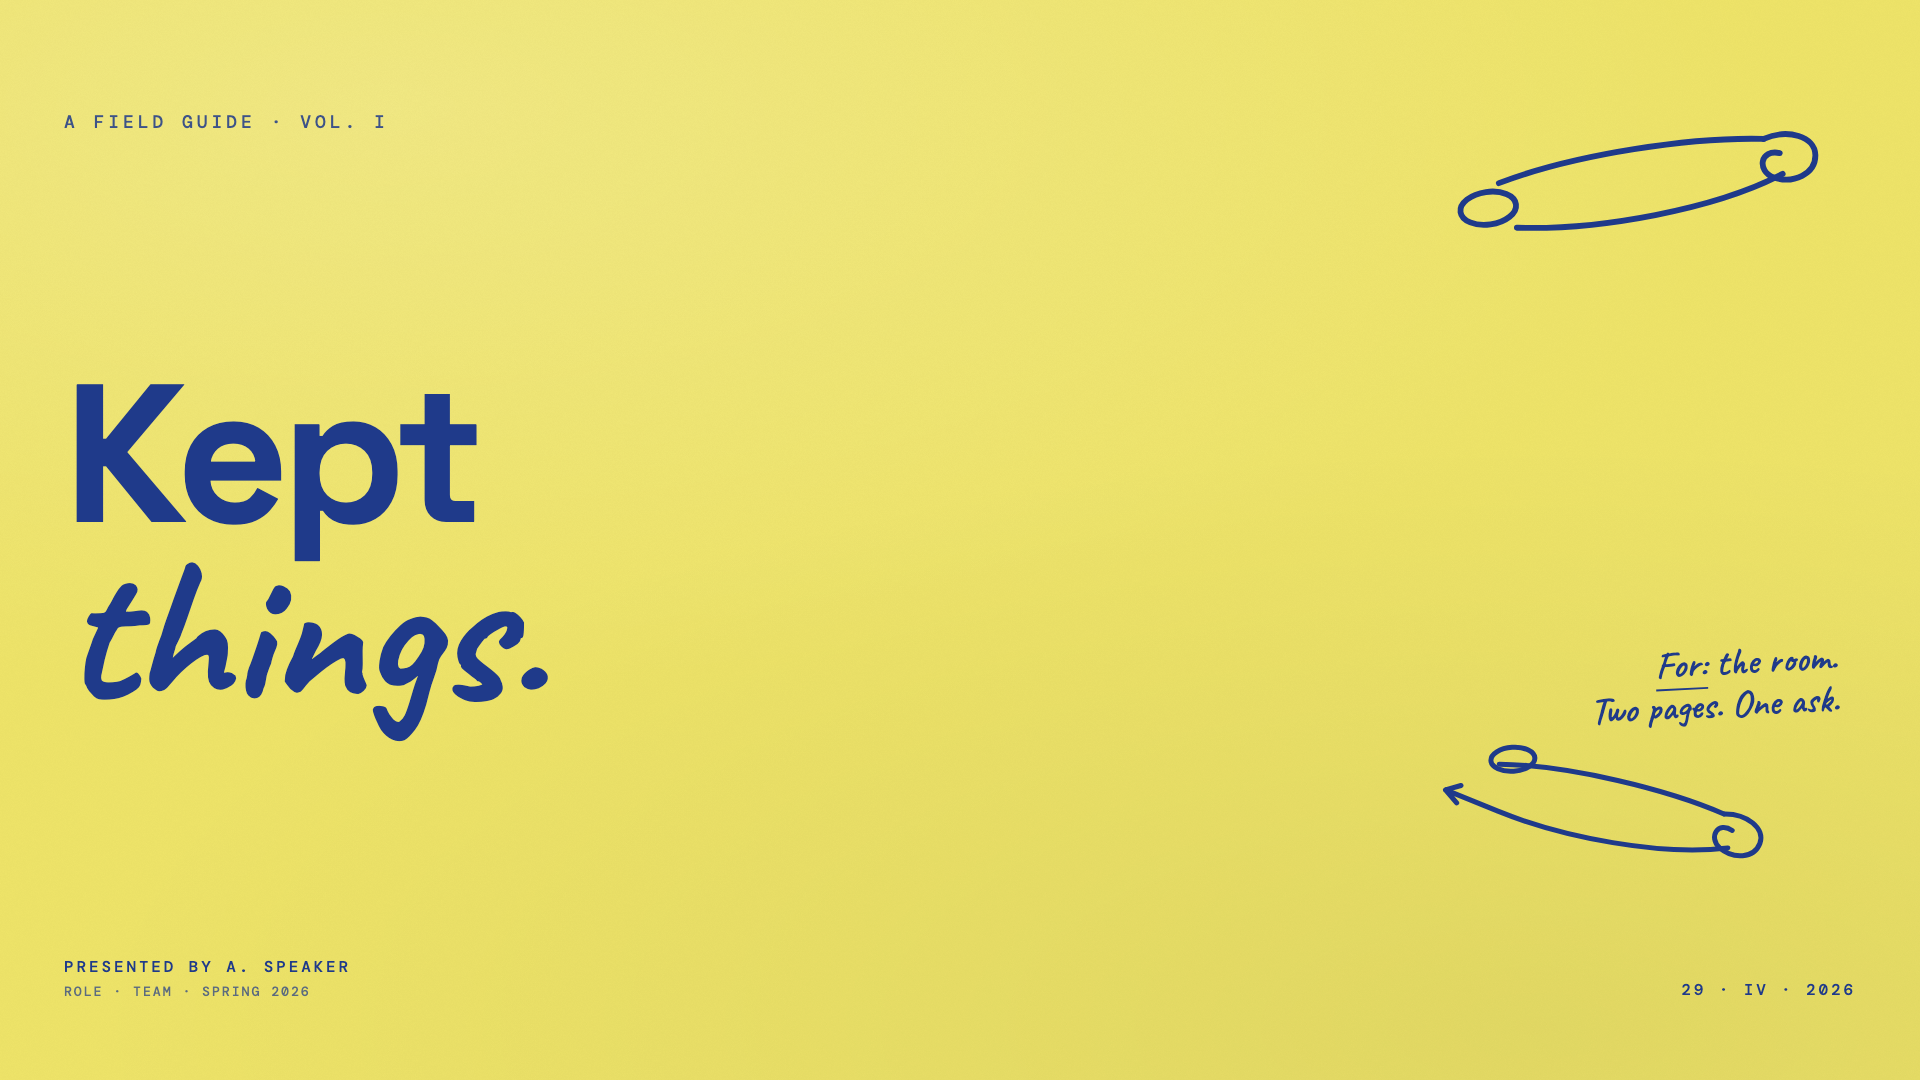
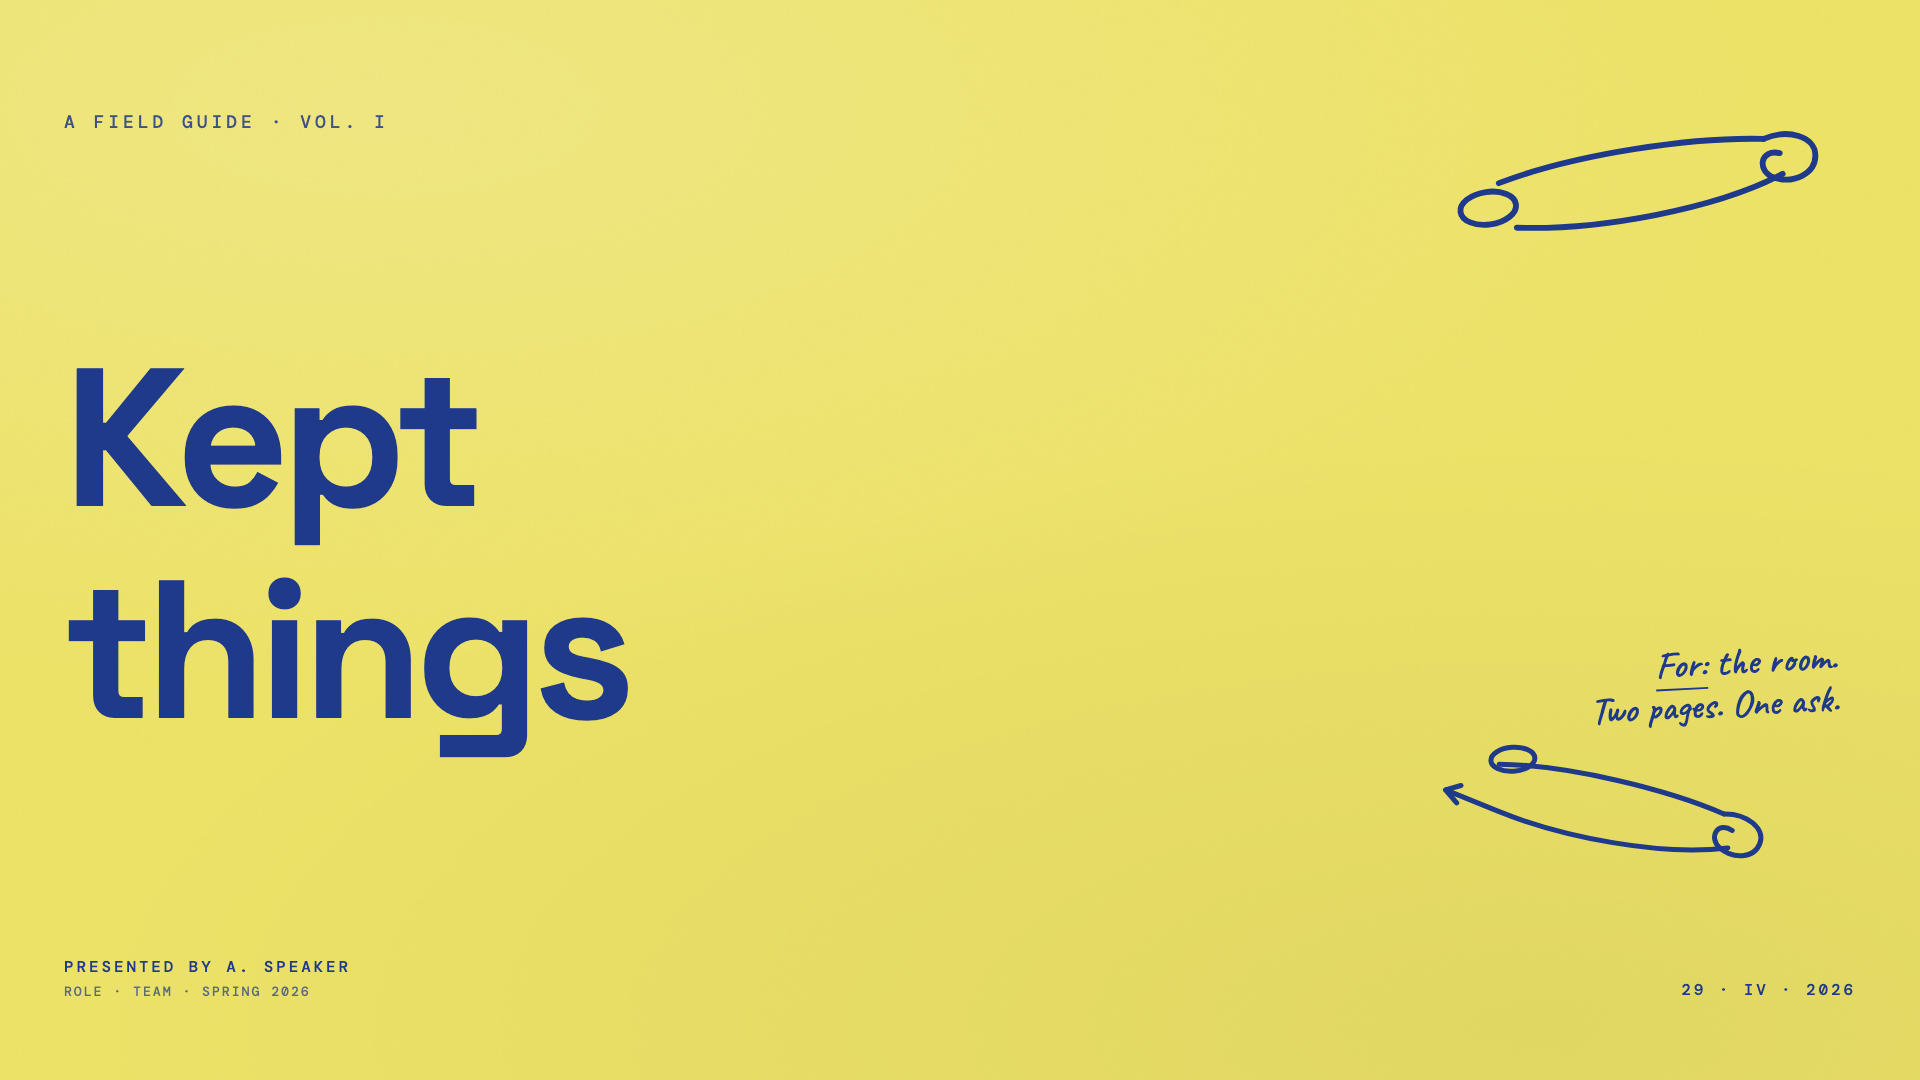
update: pin-and-paper — unify title font, no italics, no periods, looser line-height
- Removed all <em> tags from h1/h2/h3 titles and the blockquote (12 em tags total)
- Dropped the corresponding Caveat-as-emphasis CSS rules so headings are 100% Space Grotesk
- Removed trailing periods from every h1/h2/h3 title (10 + 3 occurrences)
- Bumped heading line-height from 0.88/0.9/0.92 to 1.05 (1.08 on the cover h1)
- Tightened a few titles per Zara's review: "What's inside" one line, "From insight to default, / in five moves" two lines, "Where each pilot / earns its keep" two lines
- Refreshed gallery screenshots (slides 1, 3, 11) to match

Changed region(s): [[0.0312, 0.5194, 0.3438, 0.7028], [0.0312, 0.3361, 0.25, 0.5194]]

diff --git a/templates/pin-and-paper/template.html b/templates/pin-and-paper/template.html
@@ -70,7 +70,7 @@
     <svg class="pin-2" viewBox="0 0 360 130"><use href="#pin-open"/></svg>
     <div class="stage">
       <div class="super">A field guide · Vol. I</div>
-      <h1>Kept<br/><em>things.</em></h1>
+      <h1>Kept<br/>things</h1>
       <div class="row">
         <div class="who">Presented by <span class="underline-thin">A. Speaker</span>
           <small>Role · Team · Spring 2026</small>
@@ -90,7 +90,7 @@
       <span class="lockup"><svg><use href="#mark"/></svg> Pin &amp; Paper</span>
       <span class="meta"><span>North Field Office</span><span>Phase I</span></span>
     </div>
-    <h2>What's<br/><em>inside.</em></h2>
+    <h2>What's inside</h2>
     <div class="list">
       <div class="row">
         <span class="num">01</span>
@@ -127,28 +127,28 @@
       <span class="meta"><span>North Field Office</span><span>Phase II</span></span>
     </div>
     <div class="head">
-      <h2>Three rules we're <em>keeping.</em></h2>
+      <h2>Three rules we're keeping</h2>
       <div class="sub">Pinned to the wall above every desk. We refer back to them when a decision feels too big to make from the seat we're in.</div>
     </div>
     <div class="grid">
       <div class="card">
         <svg class="pin" viewBox="0 0 360 110"><use href="#pin"/></svg>
         <span class="num">Rule · 01</span>
-        <h3>Write the<br/>real sentence.</h3>
+        <h3>Write the<br/>real sentence</h3>
         <p>If a customer wouldn't read the email, the email is not the work. Plain words, signed by a person, sent on a Tuesday.</p>
         <div class="scribble">— write it <span class="underline">by hand</span> first.</div>
       </div>
       <div class="card alt">
         <svg class="pin" viewBox="0 0 360 110"><use href="#pin"/></svg>
         <span class="num">Rule · 02</span>
-        <h3>Earn the<br/>second look.</h3>
+        <h3>Earn the<br/>second look</h3>
         <p>Every interaction in the first 72 hours is doing four times the work of one in week three. Spend accordingly.</p>
         <div class="scribble">no autoresponder, ever.</div>
       </div>
       <div class="card alt2">
         <svg class="pin" viewBox="0 0 360 130"><use href="#pin-open"/></svg>
         <span class="num">Rule · 03</span>
-        <h3>Keep the<br/>handwriting.</h3>
+        <h3>Keep the<br/>handwriting</h3>
         <p>The system is allowed to grow, but the voice on the other end stays small enough to know who you wrote to last week.</p>
         <div class="scribble">200 names, max.</div>
       </div>
@@ -161,7 +161,7 @@
     <div class="marker">Section II</div>
     <div class="label">Direction<br/>&amp; doctrine</div>
     <svg class="pin-big" viewBox="0 0 360 110"><use href="#pin"/></svg>
-    <h2>Where we<br/>are going,<br/><em>and why.</em></h2>
+    <h2>Where we<br/>are going,<br/>and why</h2>
     <div class="scribble">— turn the page —</div>
     <div class="footer"><span>North Field Office</span><span>04 / 11</span></div>
   </section>
@@ -174,7 +174,7 @@
     </div>
     <div class="head">
       <div class="pre">Notice · 05<br/>Action title</div>
-      <h2>The trust gap is built in the first 72 hours, <em>not</em> the first 7 days — and the cost compounds for the rest of the lifecycle.</h2>
+      <h2>The trust gap is built in the first 72 hours, not the first 7 days — and the cost compounds for the rest of the lifecycle</h2>
     </div>
     <div class="grid">
       <div class="col">
@@ -215,7 +215,7 @@
     </div>
     <svg class="pin-deco" viewBox="0 0 360 130"><use href="#pin-open"/></svg>
     <div class="left">
-      <h2>Curve<br/>bends at<br/><em>day three.</em></h2>
+      <h2>Curve<br/>bends at<br/>day three</h2>
       <p>Cohorts that received a written welcome and a human reply within 24 hours retain at roughly 2× the rate of the templated cohort, and the gap holds steady for ninety days.</p>
       <div class="legend">
         <div class="li"><i style="background:rgba(239,229,106,.5)"></i> Templated welcome (control)</div>
@@ -256,7 +256,7 @@
       <span class="meta"><span>North Field Office</span><span>Phase IV</span></span>
     </div>
     <div class="head">
-      <h2>From <em>insight</em><br/>to default,<br/>in five moves.</h2>
+      <h2>From insight to default,<br/>in five moves</h2>
       <div class="sub">A repeatable path each pilot follows, end to end, before it is allowed to graduate to the default experience for every customer.</div>
     </div>
     <div class="flow">
@@ -312,7 +312,7 @@
       <span class="meta"><span>North Field Office</span><span>Phase IV</span></span>
     </div>
     <div class="head">
-      <h2>Where each<br/><em>pilot</em> earns<br/>its keep.</h2>
+      <h2>Where each pilot<br/>earns its keep</h2>
       <div class="sub">Scored against the four levers that matter most this cycle. We will only carry forward bets that win on at least two.</div>
     </div>
     <div class="table">
@@ -351,7 +351,7 @@
       <span class="meta"><span>Phase III</span><span>Evidence</span></span>
     </div>
     <div class="head">
-      <h2>The case,<br/><em>by the numbers.</em></h2>
+      <h2>The case,<br/>by the numbers</h2>
       <div class="sub">Three figures we will report against every cycle. If one of these stops moving, the bet is over.</div>
     </div>
     <div class="grid">
@@ -387,7 +387,7 @@
       <svg class="pin" viewBox="0 0 360 110"><use href="#pin"/></svg>
       <div class="qmark">"</div>
       <div>
-        <blockquote>Three days in, someone wrote me a <em>real sentence.</em> I'd been a customer of theirs for nine months before I noticed I'd never been a customer anywhere else again.</blockquote>
+        <blockquote>Three days in, someone wrote me a real sentence. I'd been a customer of theirs for nine months before I noticed I'd never been a customer anywhere else again.</blockquote>
         <div class="who">Margaux Lévêque
           <small>CFO · mid-market retailer · 14 months in</small>
         </div>
@@ -405,7 +405,7 @@
     <div class="stage">
       <div class="pane l">
         <div class="super">From here</div>
-        <h2>Pick the<br/>three<br/><em>bets.</em></h2>
+        <h2>Pick the<br/>three<br/>bets</h2>
         <p>Three pilots in eight weeks. We'll bring back evidence the quarter after, and the question won't be whether to ship — it'll be which two to default.</p>
         <svg class="pin" viewBox="0 0 360 110"><use href="#pin"/></svg>
       </div>

diff --git a/templates/pin-and-paper/styles.css b/templates/pin-and-paper/styles.css
@@ -112,20 +112,12 @@ section.slide.ink .footer { color: var(--paper); opacity: .75; }
   font-family: "Space Grotesk", sans-serif;
   font-weight: 700;
   font-size: 196px;
-  line-height: .88;
+  line-height: 1.08;
   letter-spacing: -.04em;
   color: var(--ink);
   margin: 0;
   align-self: center;
   max-width: 14ch;
-}
-.s-cover h1 em {
-  font-family: "Caveat", cursive;
-  font-weight: 700;
-  font-style: normal;
-  color: var(--ink);
-  font-size: 1.05em;
-  letter-spacing: -.005em;
 }
 .s-cover .pin-1 {
   position: absolute; top: 130px; right: 80px;
@@ -173,11 +165,8 @@ section.slide.ink .footer { color: var(--paper); opacity: .75; }
 .s-agenda h2 {
   position: absolute; left: 64px; top: 110px;
   font-family: "Space Grotesk", sans-serif; font-weight: 700;
-  font-size: 96px; line-height: .92; letter-spacing: -.03em;
+  font-size: 96px; line-height: 1.05; letter-spacing: -.03em;
   margin: 0; color: var(--ink);
-}
-.s-agenda h2 em {
-  font-family: "Caveat", cursive; font-style: normal; font-weight: 700;
 }
 .s-agenda .list {
   position: absolute; left: 64px; right: 64px; top: 340px; bottom: 100px;
@@ -214,9 +203,8 @@ section.slide.ink .footer { color: var(--paper); opacity: .75; }
 .s-notes .head { position: absolute; left: 64px; right: 64px; top: 110px; }
 .s-notes h2 {
   font-family: "Space Grotesk", sans-serif; font-weight: 700;
-  font-size: 84px; line-height: .92; letter-spacing: -.03em; margin: 0;
+  font-size: 84px; line-height: 1.05; letter-spacing: -.03em; margin: 0;
 }
-.s-notes h2 em { font-family: "Caveat", cursive; font-style: normal; }
 .s-notes .sub {
   margin-top: 14px;
   font-size: 22px; line-height: 1.45; max-width: 60ch; opacity: .85;
@@ -279,11 +267,8 @@ section.slide.ink .footer { color: var(--paper); opacity: .75; }
   position: absolute;
   left: 64px; right: 480px; bottom: 180px;
   font-family: "Space Grotesk", sans-serif; font-weight: 700;
-  font-size: 168px; line-height: .88; letter-spacing: -.04em;
+  font-size: 168px; line-height: 1.05; letter-spacing: -.04em;
   color: var(--paper); margin: 0;
-}
-.s-sec h2 em {
-  font-family: "Caveat", cursive; font-style: normal; color: var(--paper);
 }
 .s-sec .pin-big {
   position: absolute; right: 64px; top: 280px;
@@ -312,7 +297,6 @@ section.slide.ink .footer { color: var(--paper); opacity: .75; }
   font-family: "Space Grotesk", sans-serif; font-weight: 700;
   font-size: 50px; line-height: 1.05; letter-spacing: -.02em; margin: 0;
 }
-.s-notice .head h2 em { font-family: "Caveat", cursive; font-style: normal; }
 .s-notice .grid {
   position: absolute; left: 64px; right: 64px; top: 320px; bottom: 90px;
   display: grid; grid-template-columns: 1.1fr 1fr 1fr; gap: 28px;
@@ -353,10 +337,9 @@ section.slide.ink .footer { color: var(--paper); opacity: .75; }
 }
 .s-chart .left h2 {
   font-family: "Space Grotesk", sans-serif; font-weight: 700;
-  font-size: 110px; line-height: .9; letter-spacing: -.035em; margin: 0;
+  font-size: 110px; line-height: 1.05; letter-spacing: -.035em; margin: 0;
   color: var(--paper);
 }
-.s-chart .left h2 em { font-family: "Caveat", cursive; font-style: normal; color: var(--paper); }
 .s-chart .left p { font-size: 21px; line-height: 1.5; color: var(--paper); opacity: .85; max-width: 36ch; }
 .s-chart .left .legend { margin-top: auto; display: flex; flex-direction: column; gap: 10px; }
 .s-chart .left .legend .li {
@@ -405,9 +388,8 @@ section.slide.ink .footer { color: var(--paper); opacity: .75; }
 }
 .s-process .head h2 {
   font-family: "Space Grotesk", sans-serif; font-weight: 700;
-  font-size: 88px; line-height: .9; letter-spacing: -.035em; margin: 0;
+  font-size: 88px; line-height: 1.05; letter-spacing: -.035em; margin: 0;
 }
-.s-process .head h2 em { font-family: "Caveat", cursive; font-style: normal; }
 .s-process .head .sub {
   font-family: "Space Grotesk", sans-serif;
   font-size: 19px; line-height: 1.5; max-width: 36ch; opacity: .85; margin-top: 12px;
@@ -461,9 +443,8 @@ section.slide.ink .footer { color: var(--paper); opacity: .75; }
 }
 .s-matrix .head h2 {
   font-family: "Space Grotesk", sans-serif; font-weight: 700;
-  font-size: 88px; line-height: .9; letter-spacing: -.035em; margin: 0;
+  font-size: 88px; line-height: 1.05; letter-spacing: -.035em; margin: 0;
 }
-.s-matrix .head h2 em { font-family: "Caveat", cursive; font-style: normal; }
 .s-matrix .head .sub {
   font-size: 19px; line-height: 1.5; max-width: 36ch; opacity: .85; margin-top: 12px;
 }
@@ -517,9 +498,8 @@ section.slide.ink .footer { color: var(--paper); opacity: .75; }
 }
 .s-stats .head h2 {
   font-family: "Space Grotesk", sans-serif; font-weight: 700;
-  font-size: 92px; line-height: .9; letter-spacing: -.035em; margin: 0;
+  font-size: 92px; line-height: 1.05; letter-spacing: -.035em; margin: 0;
 }
-.s-stats .head h2 em { font-family: "Caveat", cursive; font-style: normal; }
 .s-stats .head .sub {
   font-size: 19px; line-height: 1.5; max-width: 36ch; opacity: .85; margin-top: 12px;
 }
@@ -586,10 +566,6 @@ section.slide.ink .footer { color: var(--paper); opacity: .75; }
   color: var(--ink);
   letter-spacing: -.02em;
 }
-.s-quote .panel blockquote em {
-  font-family: "Caveat", cursive; font-weight: 700; font-style: normal;
-  font-size: 1.05em;
-}
 .s-quote .panel .who {
   margin-top: 32px;
   font-family: "DM Mono", monospace; font-weight: 500;
@@ -634,10 +610,7 @@ section.slide.ink .footer { color: var(--paper); opacity: .75; }
 }
 .s-cta .pane.l h2 {
   font-family: "Space Grotesk", sans-serif; font-weight: 700;
-  font-size: 130px; line-height: .88; letter-spacing: -.035em; margin: 0;
-}
-.s-cta .pane.l h2 em {
-  font-family: "Caveat", cursive; font-style: normal;
+  font-size: 130px; line-height: 1.05; letter-spacing: -.035em; margin: 0;
 }
 .s-cta .pane.l p { font-size: 21px; line-height: 1.5; opacity: .9; max-width: 30ch; }
 .s-cta .pane.l .pin {
